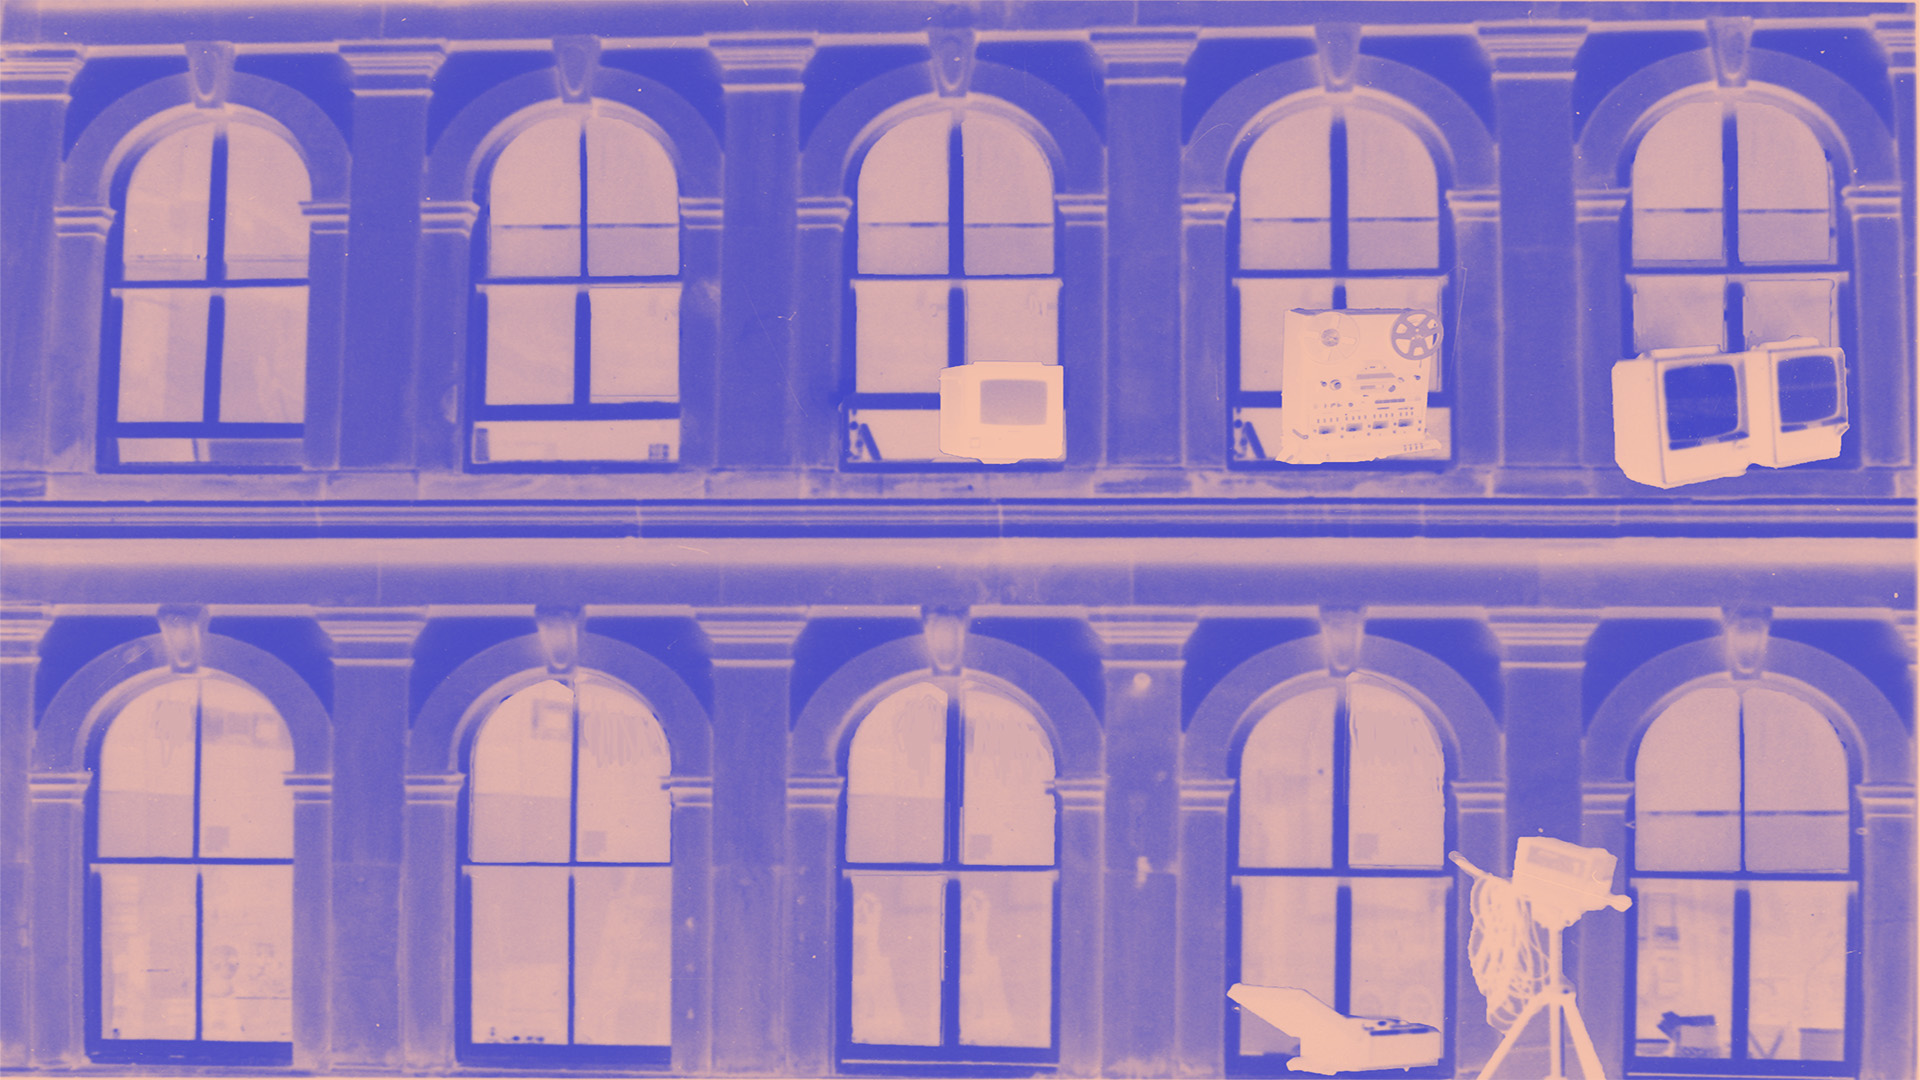
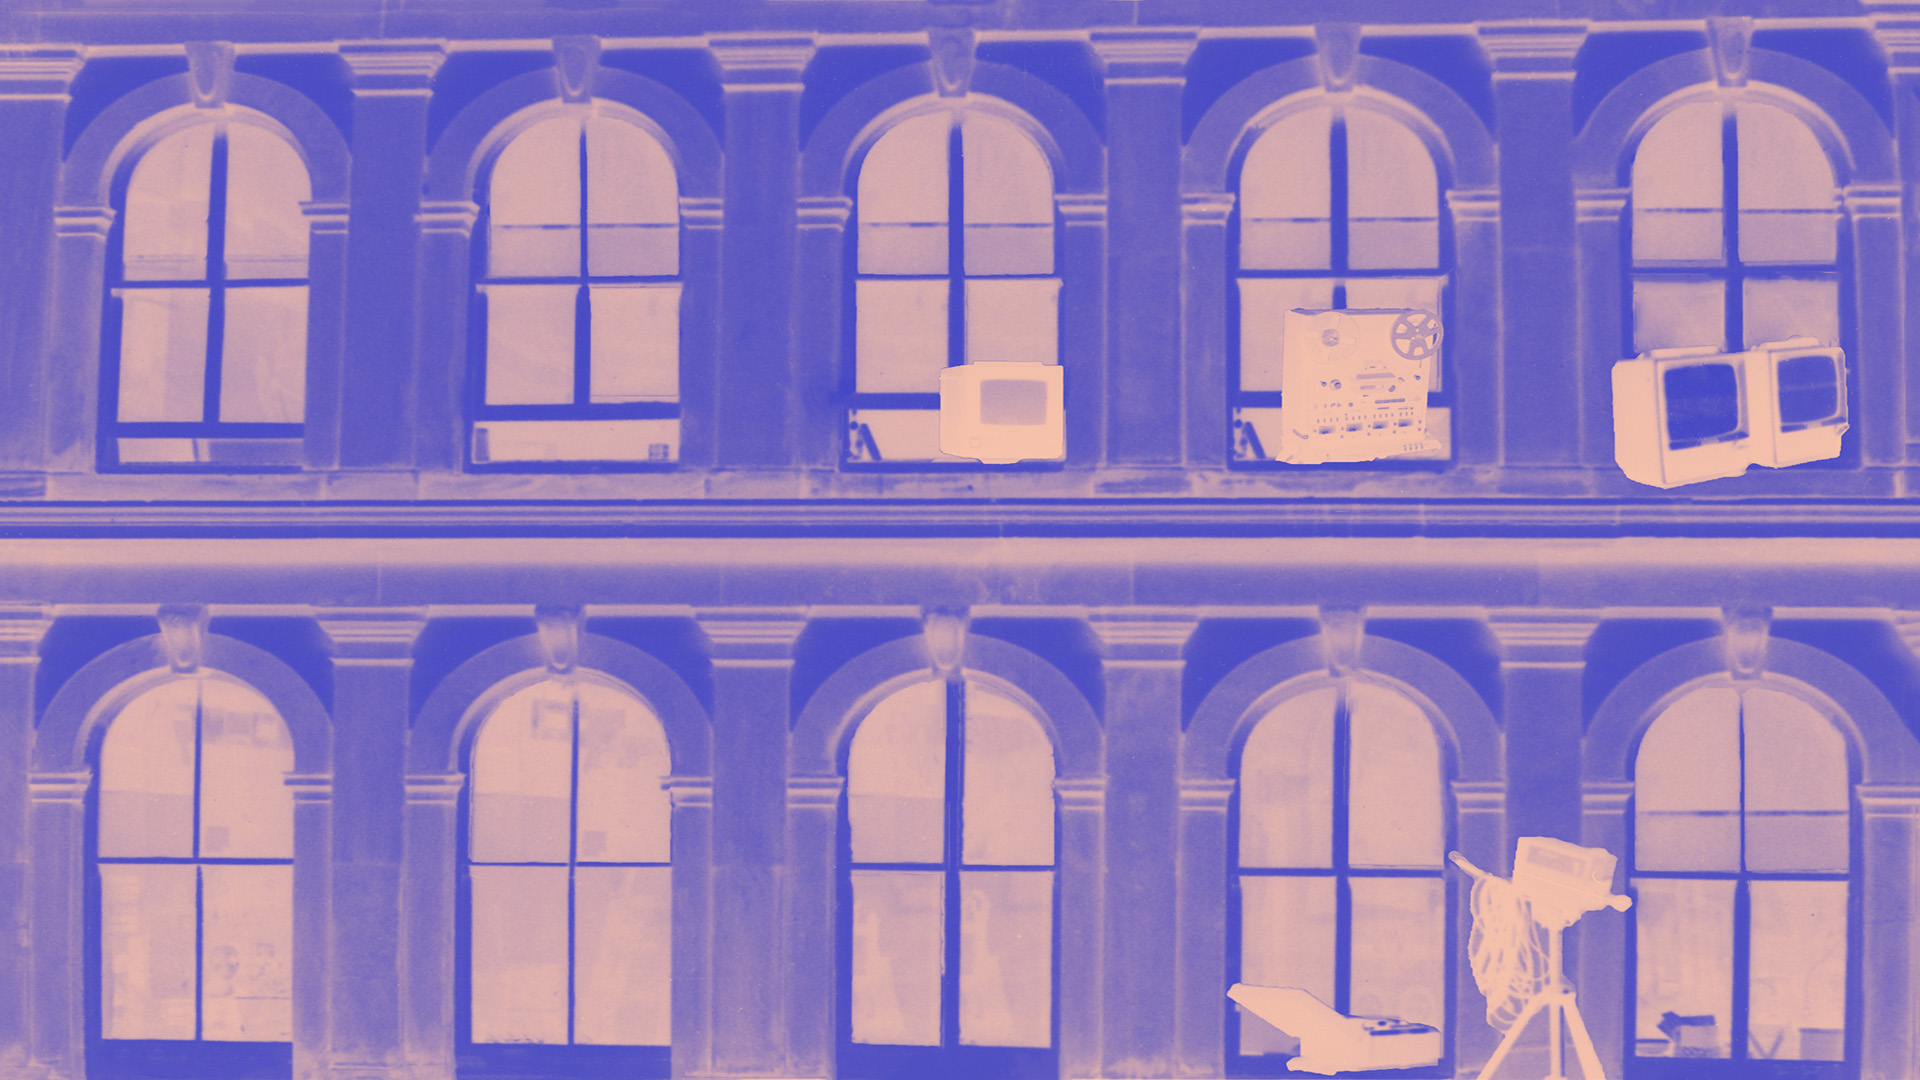
Adding new image, verticaly aligning image to top.

diff --git a/sass/components/_pages.scss b/sass/components/_pages.scss
@@ -17,12 +17,19 @@ html {
 }
 
 body.front {
-	-webkit-background-size: cover;
-	-moz-background-size: cover;
-	-o-background-size: cover;
-	margin-top: 29px;
-	background-repeat: no-repeat;
-	background-size: cover;
+	.front-background-image {
+		-webkit-background-size: cover;
+		-moz-background-size: cover;
+		-o-background-size: cover;
+		background-repeat: no-repeat;
+		background-size: cover;
+		width: 100vw;
+		height: calc(100vh - 125px);
+		position: absolute;
+		top: 80px;
+		left: 0;
+	}
+
 }
 
 #footer {

diff --git a/template.php b/template.php
@@ -15,14 +15,14 @@ function barnard_theme_preprocess_html(&$variables) {
     $fid = theme_get_setting('body_background_image');
     if (!empty($fid) && isset(file_load($fid)->uri)) {
       $background_url = file_create_url(file_load($fid)->uri);
-      $variables['attributes_array']['style'] = array(
+      $variables['background_style']['style'] = array(
         "background-image: url($background_url)",
       );
     }
     else {
       $bg_path = drupal_get_path('theme', 'barnard_theme') . "/images/nscad/NSCAD_WindowsAV.jpg";
       $bg_url = file_create_url($bg_path);
-      $variables['attributes_array']['style'] = array(
+      $variables['background_style']['style'] = array(
         "background-image: url('" . $bg_url . "')",
       );
     }

diff --git a/templates/html.tpl.php b/templates/html.tpl.php
@@ -41,6 +41,7 @@
   <?php endif; ?>
 </head>
 <body class="<?php print $classes; ?>" <?php print $attributes;?>>
+  <div class="front-background-image" <?php print drupal_attributes($background_style);?>></div>
   <?php print $page_top; ?>
   <?php print $page; ?>
   <?php print $page_bottom; ?>
